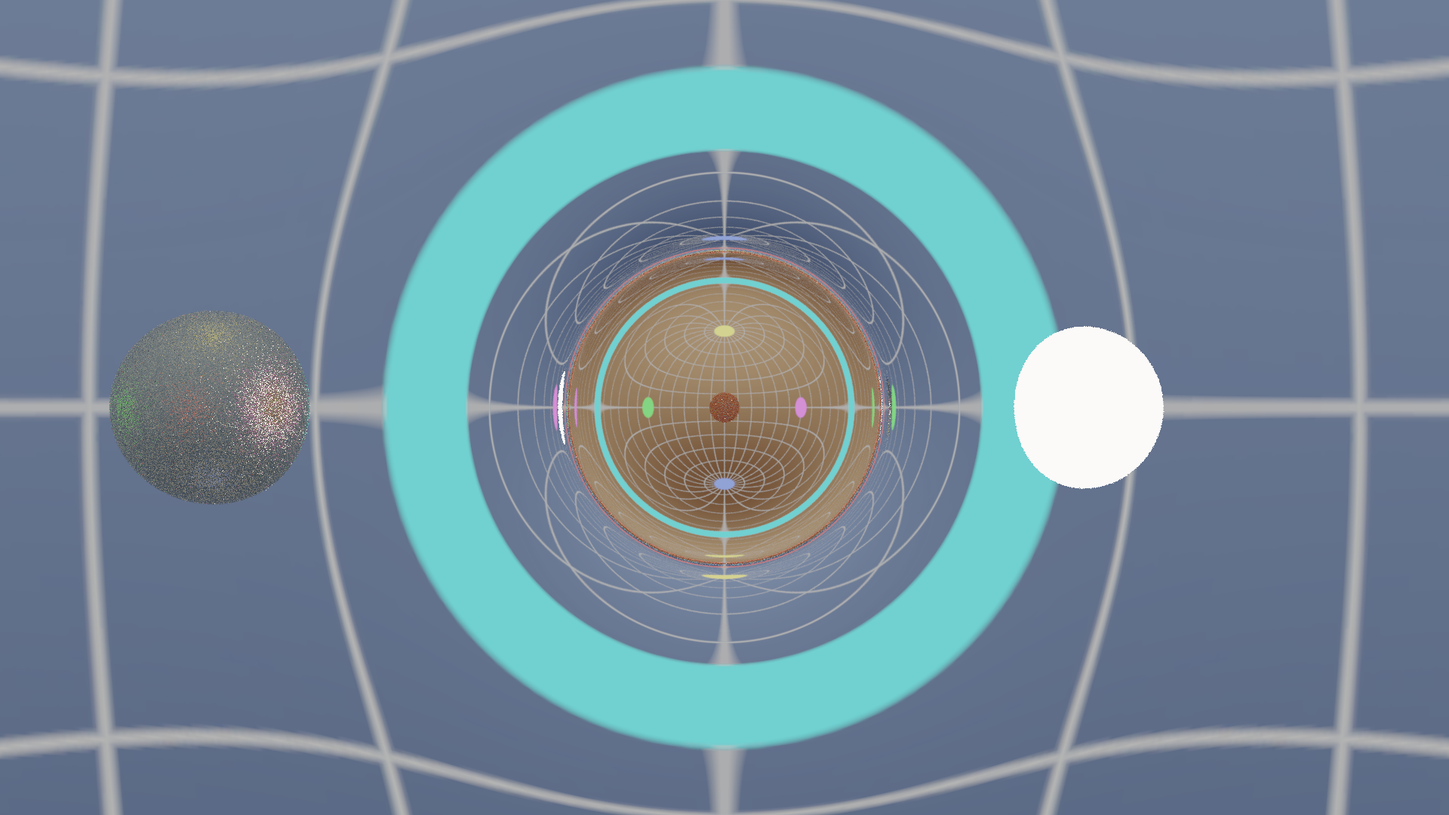
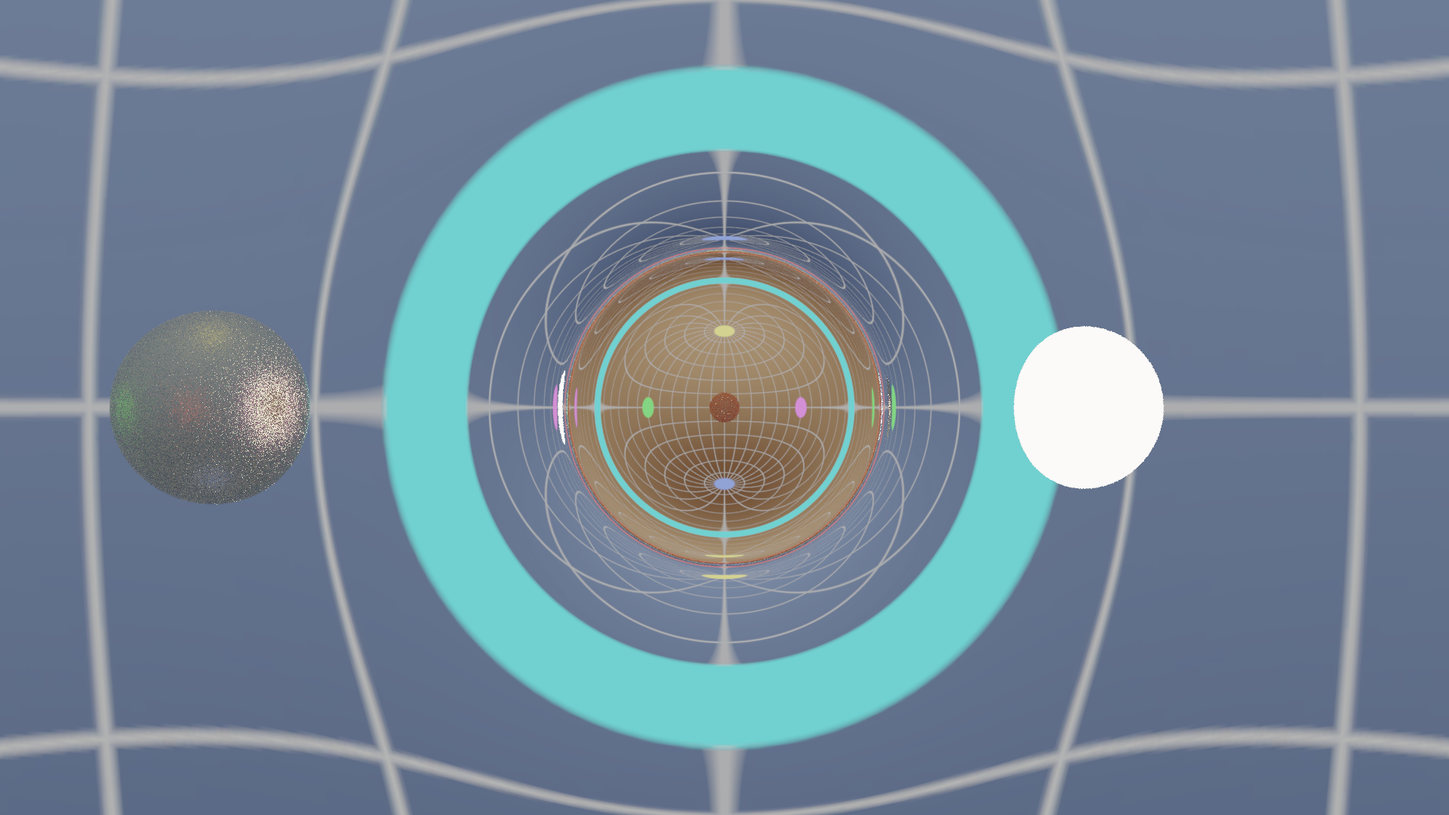
[s4/report] отчёт этапа 4, итог DD-005, результаты профиля (d6bcb9e), журнал, CHANGELOG, known-issues, PROGRESS

Changed region(s): [[0.0625, 0.4278, 0.2188, 0.6111], [0.125, 0.3972, 0.1562, 0.4278]]

diff --git a/docs/reports/stage-4.md b/docs/reports/stage-4.md
@@ -1,0 +1,82 @@
+# Отчёт: этап 4 — режим B (трассировка путей)
+
+Дата: 2026-10-24. RTX 4080 SUPER, драйвер 610.88, Slang 2025.17.2, OptiX 9.1 (заголовки optix-dev, библиотека драйвера).
+Результаты: `results/stage-4/2026-10-24_gpu_pt_quality` (коммит `a128f45`) и `…_gpu_pt_profile` (`d6bcb9e`),
+оба `git_dirty: false`. Дизайн — DD-005 (Accepted), решения — ADR-0006, ADR-0007, формулы M26–M32.
+
+## Критерии приёмки
+
+| Критерий (TASK.md, этап 4) | Результат | Где |
+|---|---|---|
+| Объекты — 4D SDF ∩ M; шаг ≤ g; уточнение эрмитовым сплайном | сделано (M26, M27): точка и направление попадания против DOP853 с событием — (1–9)·tol на гиперплоскости, S³, эллипсоиде, Эллисе (сквозь горловину), M11 (шар в зоне кривизны, тор на другом листе) | `tests/test_objects.py` |
+| BSDF-сэмплирование, русская рулетка | Ламберт, GGX-металл (VNDF), рулетка с глубины 3; E[f·cos/pdf] = ∫f·cos | `test_pathtrace.py::test_bsdf_sampling_consistent` |
+| NEE + MIS только при прямом соединении в той же плоской зоне | сделано (M29): сферические источники и фон (решение ревью) из плоских зон по отрезкам мимо шаров кривизны, на том же листе; веса MIS согласованы с этой областью. Проверено печью, аналитикой «пол + сферический источник» (MIS, только NEE, только BSDF — все совпадают), MIS против «только NEE» на сцене 3, независимым евклидовым трассировщиком | `test_pathtrace.py`, `test_gpu_pt.py` |
+| Допуск интегратора растёт с глубиной | сделано (M30): tol = κ·max(θ_pix, γ); k_cone = 0.25 — −16 % проходов, −9 % времени сэмпла, смещения нет | ADR-0006, `gpu_pt_quality/table.md` |
+| Ray cones для мип-уровня | **заменено по измерению**: мип по конусу даёт смещение +0.14…+0.40 % при снижении дисперсии < 1 %; фон во вторичных лучах — мип 0 | ADR-0006 |
+| Пиксели с первичным лучом в фон — режим A без шума | сделано: проход камеры классифицирует пиксели (фон / объект / смешанный — объект в следе пикселя по полям Якоби); фон — режим A, фолбэк детектора — трассировщиком; PSNR фона против трассировки 4096 spp — 43.7 дБ при шумовом поле эталона 43.3 | `gpu_pt_quality/table.md` |
+| Временное накопление при неподвижной камере | сделано: буферы накопления живут между диспетчеризациями (сэмпл за диспетчеризацию), проход камеры — один на позу | `gpu_pt.render*` |
+| Денойзер (OptiX) с AOV альбедо и нормали | сделано (ADR-0007): OptiX HDR, AOV — альбедо и нормаль первого попадания в базисе камеры, перенесённом проекцией (M32). 1 spp: 22.4 → 36.8 дБ, 64 spp: 30.6 → 43.4 дБ | `gpu_pt_quality/table.md` |
+| 1080p: 1 spp + денойзер — 40–100 мс | **51.4 мс** (сцена 3), 29.2 мс (Эллис) | `gpu_pt_profile/table.md` |
+| 1080p: 64 spp + денойзер — 3–5 с | **0.39 с** (сцена 3), 0.13 с (Эллис) | там же |
+
+## Профиль (1 командный буфер на кадр, медиана прогонов после прогрева; денойзер — отдельно)
+
+[`gpu_pt_profile/table.md`](../../results/stage-4/2026-10-24_gpu_pt_profile/table.md), мс:
+
+| сцена | разрешение | режим | камера | трассировщик | фолбэк | денойзер | **всего** |
+|---|---|---|---|---|---|---|---|
+| сцена 3 | 1080p | 1 spp, фолбэк 8 | 22.6 | 8.2 | 13.3 | 6.9 | **51.4** |
+| сцена 3 | 1080p | 64 spp, фолбэк 64 | 13.7 | 310.2 | 60.9 | 7.5 | **392.8** |
+| сцена 3 | 4K | 1 spp, фолбэк 8 | 53.0 | 20.2 | 33.3 | 27.1 | **135.1** |
+| сцена 3 | 4K | 64 spp, фолбэк 64 | 54.0 | 1311.3 | 270.0 | 26.8 | **1663.5** |
+| Эллис | 1080p | 1 spp, фолбэк 8 | 12.2 | 0.6 | 8.4 | 7.5 | **29.2** |
+| Эллис | 1080p | 64 spp, фолбэк 64 | 12.5 | 37.3 | 68.3 | 6.9 | **125.7** |
+
+Оттенение, детектор и построение списков — < 2 мс во всех случаях. Сцена 3: 35 % пикселей — фон (режим A), 64 % —
+объекты, 0.7 % — смешанные, 6 % — фолбэк; 107 проходов Jet7 на путь. Регистры: трассировщик 96 (занятость 31 %),
+проход камеры с Якоби 247 (17 %, как на этапе 3).
+
+- Проход камеры в «интерактиве» 22.6 мс против 13.7 мс в «финале» при одинаковой работе: короткий граф не разгоняет
+  частоты GPU (12 прогонов подряд). В непрерывном цикле ожидается ближе к 14 мс — проверить на этапе 5.
+- Время денойзера — только вычисления OptiX; пересылки хост ↔ GPU стенда не входят (обмен памятью Vulkan ↔ CUDA не сделан).
+- Узкие места: в интерактиве — проход камеры с Якоби (занятость 17 %) и фолбэк; в финале — трассировщик.
+
+## Качество ([`gpu_pt_quality/table.md`](../../results/stage-4/2026-10-24_gpu_pt_quality/table.md))
+
+Сцена 3, 480×270, эталон — трассировщик 4096 spp (tol 1e-4), шумовой пол 43.3 дБ.
+
+| spp | шумный | денойз: цвет | + альбедо | + альбедо + нормаль |
+|---|---|---|---|---|
+| 1 | 22.4 | 36.8 | 36.6 | 36.6 |
+| 16 | 28.6 | 41.1 | 41.5 | 41.5 |
+| 64 | 30.6 | 43.3 | 43.3 | 43.4 |
+
+AOV на этой сцене почти не помогают (±0.4 дБ): мало текстур, гладкие материалы.
+
+![кадр 1 spp + денойзер](../../results/stage-4/2026-10-24_gpu_pt_profile/two_wormholes_interactive_1080p.png)
+
+## Отклонения от плана и найденные ошибки
+
+- **Попадание по ε_hit вместо смены знака** (первая версия GPU): близкие промахи (0 < g < ε_hit) объявлялись
+  попаданиями, точка оказывалась за объектом — печь показала −8 % энергии у силуэтов. Теперь попадание — только
+  смена знака g; то же в теневом тесте (M26).
+- **Смещение от поверхности ~ε_hit** уводило точку за соседнюю поверхность в щели «шар на полу» → обрывы путей.
+  Теперь смещение — от пола округления.
+- **Пологие лучи к бесконечному полу** обрывались по s_max (sphere tracing к плоскости сходится медленно) —
+  полупространства на прямой пересекаются аналитически. **Разные допуски радиуса шара** в проверках прямой и
+  в выходе интегратора отправляли лучи «в никуда». **1 − cos θ_max** далёкого источника во float32 = 0 → NaN.
+  Все пять найдены печью и аналитическими тестами; после исправлений печь на GPU: 1.0002 / 1.0005 / 1.0000
+  (сцена 3 / гиперплоскость / Эллис) при 8192 spp, обрывов нет.
+- **M32**: базис AOV переносится проекцией на каждом шаге вместо HVP-прохода (то же к первому порядку, без Hv).
+- **Фолбэк режима A** делает ядро трассировщика по списку: штатный фолбэк знает один шар кривизны, а трассировщик —
+  объекты и обе червоточины.
+- **Мегаядро + списки пикселей** вместо wavefront по отскокам: ориентиры выполнены, wavefront по отскокам не делался.
+- **Мипы по конусу отключены** (ADR-0006), **OptiX без CUDA Toolkit** (ADR-0007).
+- Диэлектрики отложены (решение ревью).
+
+## Переносится в этап 5
+
+- Обмен памятью Vulkan ↔ CUDA для денойзера (сейчас — копии через хост), один цикл кадра без процесса на кадр.
+- Проход камеры: занятость 17 % (регистры канала Якоби) — главная статья интерактивного кадра вместе с фолбэком.
+- Искры на полу у червоточин: источник виден там только сквозь кривизну, NEE запрещена правилом — шум убирает
+  денойзер/накопление.

diff --git a/docs/PROGRESS.md b/docs/PROGRESS.md
@@ -1,27 +1,26 @@
 # PROGRESS
 
 ## Текущий этап
-**Этап 4 — режим B (path tracing): DD-005 в статусе Review, ждёт ревью пользователя. Реализацию не начинать.**
-Этап 3 завершён ([reports/stage-3.md](reports/stage-3.md)); «Продолжай» после отчёта принято как приёмка
-(подтверждение — вопрос 1 в DD-005).
+**Этап 4 — режим B (трассировка путей): критерии выполнены, отчёт написан** ([reports/stage-4.md](reports/stage-4.md)).
+Ждёт ревью пользователя. Этап 5 — опциональный (интерактивная камера, ролик).
 
-## Критерии этапа 4 (TASK.md)
-- [ ] DD-005 Accepted ([design/DD-005-path-tracing.md](design/DD-005-path-tracing.md))
-- [ ] Объекты 4D SDF ∩ M: шаг ≤ g, эрмитово уточнение (прототип → GPU)
-- [ ] Трассировщик: BSDF, рулетка, NEE+MIS в плоской зоне, допуск по глубине, ray cones
-- [ ] Фоновые пиксели — режим A; накопление; денойзер с AOV
-- [ ] 1080p: 1 spp + денойзер 40–100 мс; 64 spp + денойзер 3–5 с (измерения)
+## Сделано (критерии этапа 4)
+- [x] Объекты 4D SDF ∩ M, шаг ≤ g, эрмитово уточнение (M26–M27) — `tests/test_objects.py`
+- [x] BSDF, рулетка, NEE+MIS только в плоских зонах (M29) — печь, аналитика, MIS, евклидов эталон
+- [x] Допуск растёт с глубиной (M30); мипы по конусу заменены по измерению (ADR-0006)
+- [x] Фон — режим A, остальное — трассировщик; накопление; денойзер OptiX с AOV (ADR-0007)
+- [x] 1080p: 1 spp + денойзер 51.4 мс, 64 spp + денойзер 0.39 с (сцена 3) — `results/stage-4/2026-10-24_gpu_pt_profile`
 
 ## Дальше
-1. Ответы по DD-005 (6 вопросов в конце документа) → Accepted.
-2. Прототип: objects.py (M26–M28), проверки попадания против DOP853; затем pathtrace.py (печь, MIS, евклидов эталон).
-3. GPU: мегаядро пути → сравнение с прототипом → wavefront → денойзер → профиль.
+1. Ревью пользователя по этапу 4.
+2. Если этап 5: обмен памятью Vulkan ↔ CUDA для денойзера, постоянный цикл кадра (окно SDL3), камера WASD с переходом
+   между листами; проверить время прохода камеры в непрерывном цикле (сейчас 22.6 мс в коротком графе против 13.7).
+3. Ускорения (по замерам): занятость прохода камеры (247 регистров), фолбэк.
 
 ## Блокеры и открытые вопросы
-- Ревью DD-005 (денойзер OptiX/OIDN и CUDA Toolkit, фон как NEE-источник, диэлектрики, сцена 3, фолбэк в интерактиве).
 - Nsight Graphics — ставит пользователь (не блокирует).
 
-## Последние цифры (этап 3)
-- 1080p режим A: 40.0 / 31.2 мс; 4K: 189 / 144 мс — `results/stage-3/2026-10-24_gpu_profile`
-- κ = 3e-3 во float32: p99 0.040 / 0.047 θ_pix — `results/stage-3/2026-10-24_gpu_kappa_alpha`
-- Качество GPU (128²): 39.0 дБ без фолбэка, 41.2 с фолбэком — `results/stage-3/2026-10-24_gpu_modea_quality`
+## Последние цифры
+- Сцена 3, 1080p: 51.4 мс (1 spp + денойзер), 0.39 с (64 spp + денойзер); 4K: 135 мс / 1.66 с — `…_gpu_pt_profile`
+- Денойзер OptiX: 6.9 мс (1080p), 27 мс (4K); 1 spp 22.4 → 36.8 дБ — `results/stage-4/2026-10-24_gpu_pt_quality`
+- Фон режима A против трассировки 4096 spp: 43.7 дБ (пол 43.3) — там же

diff --git a/docs/log/2026-10-24-05.md b/docs/log/2026-10-24-05.md
@@ -1,0 +1,34 @@
+# Сессия 2026-10-24-05
+
+## Цель
+Реализовать этап 4 по DD-005 (после ревью: OptiX, фон как NEE-источник, диэлектрики отложены, сцена 3, фолбэк 8 spp
+в интерактиве) и закрыть этап.
+
+## Что сделано
+- Прототип: `objects.py` (M26–M28), `pathtrace.py` (M29, сцены), `euclid_pt.py`; тесты против DOP853, печь, аналитика
+  «пол + сферический источник», MIS против «только NEE», евклидов эталон.
+- GPU: `pathtrace.slang` — мегаядро пути, проход камеры, списки пикселей; генерация описания сцены из прототипа
+  (`gpu_pt.scene_header`); кадр одним командным буфером; денойзер OptiX (`geo4d_gpu denoise`).
+- Измерения: `results/stage-4/2026-10-24_gpu_pt_quality`, `…_gpu_pt_profile`; ADR-0006, ADR-0007; M26–M32; отчёт.
+
+## Что пробовал и не сработало — и почему
+- **Попадание при g < ε_hit**: близкие промахи становились попаданиями (точка за объектом) — на кадре 8×8 (θ_pix 0.2)
+  печь −8 %. Замена: только смена знака.
+- **Смещение ~2ε_hit** после отскока: в щели «шар на полу» точка уходила за соседнюю поверхность.
+- **Sphere tracing к плоскости** на пологих лучах не доходил за s_max — аналитика плоскостей.
+- **Разные допуски ρ₀** в выходе интегратора и проверках прямой: лучи на границе шара летели до s_max.
+- **1 − cos θ_max** во float32 у далёких точек → 0 → NaN в MIS (проявилось только после исправления пологих лучей).
+- **Мипы по конусу**: сначала двойная фильтрация первичного луча (−10 дБ), затем и с раствором только от отскоков —
+  смещение без выигрыша в дисперсии; отключены.
+- **Замеры отдельными процессами** на проход: частоты GPU стартуют заново, разброс ×3 — перешёл на граф с прогревом.
+- **Статистика**: кодирование попаданий с обратной стороны как +1e6 в том же float портило счётчик проходов.
+- Тест «GPU против прототипа» попиксельно ненадёжен при сотнях spp прототипа (тяжёлые хвосты) — критерий: z
+  среднего по кадру + ≤ 5 % выбросов.
+
+## Решения
+- k_cone = 0.25, k_lod = 0 (ADR-0006); OptiX через шим `cuda.h` и `nvcuda.dll` (ADR-0007); перенос базиса AOV
+  проекцией (M32); фолбэк режима A — трассировщиком по списку.
+
+## С чего начать в следующий раз
+Ревью пользователя по отчёту этапа 4; этап 5 (опционально) — интерактивная камера: обмен памятью Vulkan ↔ CUDA,
+постоянный цикл кадра.

diff --git a/results/stage-4/2026-10-24_gpu_pt_profile/table.md b/results/stage-4/2026-10-24_gpu_pt_profile/table.md
@@ -1,10 +1,10 @@
 | сцена | разрешение | режим | камера | фон (оттен.+дет.) + списки | трассировщик | фолбэк | денойзер | **всего, мс** | фон / объект / смеш. / фолбэк, % | проходов Jet7 на путь | регистры PT / камера |
 |---|---|---|---|---|---|---|---|---|---|---|---|
-| two_wormholes | 1920x1080 | interactive (1 spp, фолбэк 8) | 37.4 | 0.44 | 19.5 | 27.6 | 6.9 | **91.8** | 35 / 64 / 0.7 / 6.1 | 111179 | 96 / 247 |
-| two_wormholes | 1920x1080 | final (64 spp, фолбэк 64) | 13.6 | 0.42 | 448.2 | 78.9 | 6.9 | **548.0** | 35 / 64 / 0.7 / 6.1 | 320 | 96 / 247 |
-| two_wormholes | 3840x2160 | interactive (1 spp, фолбэк 8) | 54.8 | 1.47 | 29.8 | 37.9 | 27.2 | **151.2** | 35 / 64 / 0.7 / 6.0 | 111240 | 96 / 247 |
-| two_wormholes | 3840x2160 | final (64 spp, фолбэк 64) | 53.1 | 1.48 | 1824.2 | 295.6 | 27.1 | **2201.5** | 35 / 64 / 0.7 / 6.0 | 326 | 96 / 247 |
-| ellis | 1920x1080 | interactive (1 spp, фолбэк 8) | 12.6 | 0.55 | 0.6 | 8.7 | 6.9 | **29.3** | 95 / 4 / 0.4 / 14.1 | 261 | 80 / 242 |
-| ellis | 1920x1080 | final (64 spp, фолбэк 64) | 12.3 | 0.55 | 36.3 | 66.2 | 6.9 | **122.3** | 95 / 4 / 0.4 / 14.1 | 51 | 80 / 242 |
-| ellis | 3840x2160 | interactive (1 spp, фолбэк 8) | 57.1 | 2.02 | 1.7 | 37.6 | 26.8 | **125.1** | 95 / 4 / 0.3 / 14.2 | 107 | 80 / 242 |
-| ellis | 3840x2160 | final (64 spp, фолбэк 64) | 55.6 | 2.02 | 105.6 | 302.0 | 26.8 | **492.1** | 95 / 4 / 0.3 / 14.2 | 57 | 80 / 242 |
+| two_wormholes | 1920x1080 | interactive (1 spp, фолбэк 8) | 22.6 | 0.43 | 8.2 | 13.3 | 6.9 | **51.4** | 35 / 64 / 0.7 / 6.1 | 107 | 96 / 247 |
+| two_wormholes | 1920x1080 | final (64 spp, фолбэк 64) | 13.7 | 0.42 | 310.2 | 60.9 | 7.5 | **392.8** | 35 / 64 / 0.7 / 6.1 | 107 | 96 / 247 |
+| two_wormholes | 3840x2160 | interactive (1 spp, фолбэк 8) | 53.0 | 1.48 | 20.2 | 33.3 | 27.1 | **135.1** | 35 / 64 / 0.7 / 6.0 | 127 | 96 / 247 |
+| two_wormholes | 3840x2160 | final (64 spp, фолбэк 64) | 54.0 | 1.48 | 1311.3 | 270.0 | 26.8 | **1663.5** | 35 / 64 / 0.7 / 6.0 | 127 | 96 / 247 |
+| ellis | 1920x1080 | interactive (1 spp, фолбэк 8) | 12.2 | 0.55 | 0.6 | 8.4 | 7.5 | **29.2** | 95 / 4 / 0.4 / 14.1 | 208 | 80 / 246 |
+| ellis | 1920x1080 | final (64 spp, фолбэк 64) | 12.5 | 0.55 | 37.3 | 68.3 | 6.9 | **125.7** | 95 / 4 / 0.4 / 14.1 | 208 | 80 / 246 |
+| ellis | 3840x2160 | interactive (1 spp, фолбэк 8) | 56.1 | 2.02 | 1.7 | 37.9 | 26.6 | **124.3** | 95 / 4 / 0.3 / 14.2 | 229 | 80 / 246 |
+| ellis | 3840x2160 | final (64 spp, фолбэк 64) | 55.3 | 2.03 | 109.8 | 302.2 | 27.4 | **496.8** | 95 / 4 / 0.3 / 14.2 | 229 | 80 / 246 |

diff --git a/CHANGELOG.md b/CHANGELOG.md
@@ -1,5 +1,19 @@
 # CHANGELOG
 
+## Этап 4 — режим B, трассировка путей (2026-10-24)
+
+### Добавлено
+- Объекты 4D SDF ∩ M: предел шага, попадание по смене знака, эрмитово уточнение, кадр оттенения (M26–M28).
+- Трассировщик путей в прототипе (плоские зоны, BSDF Ламберт/GGX, NEE к сферическим источникам и фону с MIS —
+  M29) и независимый евклидов эталон; сцены: гиперплоскость, две компактные червоточины (сцена 3), Эллис.
+- GPU: мегаядро пути `pt_sample`, проход камеры `pt_camera` (класс пикселя, флаг «смешанный»), списки пикселей и
+  косвенные диспетчеризации, кадр одним командным буфером; генерация сцены из прототипа.
+- Денойзер OptiX (`geo4d_gpu denoise`), AOV альбедо и нормали (M32).
+- Тесты `test_objects.py`, `test_pathtrace.py`, `test_gpu_pt.py`; скрипты `gpu_pt_quality.py`, `gpu_pt_profile.py`.
+
+### Решения
+- DD-005 Accepted; ADR-0006: рост допуска с конусом — да, мипы по конусу — нет; ADR-0007: OptiX без CUDA Toolkit.
+
 ## Этап 3 — порт на GPU (2026-10-24)
 
 ### Добавлено

diff --git a/docs/known-issues.md b/docs/known-issues.md
@@ -21,6 +21,10 @@
   (на S³ совпадают с нормалью).
 - **GPU: занятость 17 %** при интегрировании с Якоби (252 регистра); фолбэк — 68 % кадра 1080p
   (docs/reports/stage-3.md). Вариант Якоби 2×2 не проверен.
+- **Режим B: искры у червоточин.** Где источник виден только сквозь кривизну, NEE запрещена (правило задания) —
+  свет находится лишь сэмплированием BSDF; шум убирают накопление и денойзер. У Эллиса плоских зон нет вовсе.
+- **Режим B: денойзер через копии хост ↔ GPU** — обмен памятью Vulkan ↔ CUDA не сделан (ADR-0007).
+- **Режим B: ε_hit = c_hit·w** задаёт допуск перескока шага: объекты тоньше ε_hit/2 на прямой могут быть пропущены.
 - **GPU: кубмапа без рамки** полагается на бесшовную выборку Vulkan; отдельного теста по направлениям у рёбер нет.
 - **Гладкая склейка M11 обрезана при q ≤ 1e-2** (хвост ≤ e⁻⁹⁹·W² отброшен); на нулевое множество и
   производные влияния нет на уровне float64.
